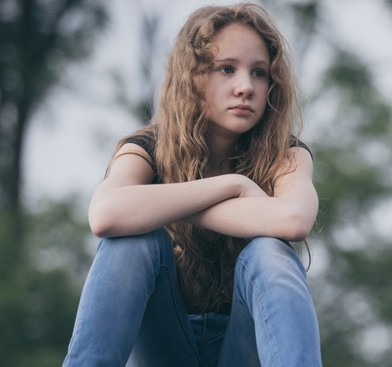
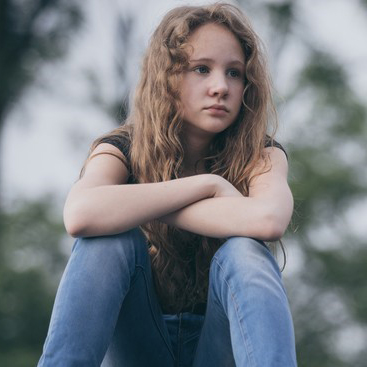
editing homepage

diff --git a/HTML/home.html b/HTML/home.html
@@ -1,97 +1,77 @@
 <!DOCTYPE html>
 <html lang="nl">
 
-<head>
-    <meta charset="UTF-8">
-    <title>Kinderen en palliatieve zorg</title>
-    <link rel="stylesheet" href="../CSS/main.css">
-    <meta name="viewport" content="width=device-width, initial-scale=1.0">
-    <link href="https://fonts.googleapis.com/css?family=Noto+Sans" rel="stylesheet">
-</head>
+    <head>
+        <meta charset="UTF-8">
+        <title>Kinderen en palliatieve zorg</title>
+        <link rel="stylesheet" href="../CSS/main.css">
+        <meta name="viewport" content="width=device-width, initial-scale=1.0">
+        <link href="https://fonts.googleapis.com/css?family=Noto+Sans" rel="stylesheet">
+    </head>
 
-<body>
-    <header>
-        <nav>
-            <ul>
-                <li><a href="contact.html">Contact</a></li>
-                <li class="media"><a href="#subnav1">Media</a>
-                    <div id="subnav1">
-                        <ul>
-                            <li><a href="mediaboeken.html">Boeken &amp; multimedia</a></li>
-                            <li><a href="medialinks.html">Links</a></li>
-                        </ul>
-                    </div>
-                </li>
-                <li><a href="tips.html">Tips</a></li>
+    <body>
+        <header>
+            <nav>
+                <ul>
+                    <li><a href="contact.html">Contact</a></li>
+                    <li class="media"><a href="#subnav1">Media</a>
+                        <div id="subnav1">
+                            <ul>
+                                <li><a href="mediaboeken.html">Boeken &amp; multimedia</a></li>
+                                <li><a href="medialinks.html">Links</a></li>
+                            </ul>
+                        </div>
+                    </li>
+                    <li><a href="tips.html">Tips</a></li>
+                </ul>
+                <div class="logo">
+                    <a href="home.html"><img a src="../images/logo.svg" alt="logo"></a>
+                </div>
+            </nav>
+        </header>
+
+
+        <h1 class="title">Kinderen en palliatieve zorg</h1>
+
+<div class="wrapper">
+        <figure class="afmontage">
+            <img src="../images/homepage.jpg" alt="home">
+        </figure>
+        <section class="geel clearfix">
+            <article class="getuigenis clearfix">
+                <img src="../images/getuigenis2.jpg" alt="">
+                <h3>Florian, 11 jaar</h3>
+                <p> Florian is ook al eens ziek geweest. Zijn keel deed pijn.De dokter kwam en gaf hem een drankje dat naar kersen smaakte. Daar werd Stan beter van. Dat was een beetje jammer, want toen moest hij weer naar school. Iedereen wordt vroeg of laat beter, maar bij mama duurt het lang.
+                </p>
+            </article>
+
+            <article class="getuigenis clearfix">
+                <img src="../images/getuigenis1.jpeg" alt="">
+                <h3>Sarah, 9 jaar</h3>
+                <p> Toen ik zes jaar was, werd oma plots ziek. Ze werd steeds vergeetachtiger. Soms vergat ze dat ze haar voordeur open had laten staan, of dat mijn vader al op bezoek geweest was. Ze moest naar een rusthuis verhuizen. Toen we haar bezochten wist ze zelfs mijn naam niet meer...
+                </p>
+
+            </article>
+        </section>
+        <section class="columns inleiding clearfix">
+            <article class="twocolumn">
+                <img src="../images/Fotos/image046.jpg" alt="">
+                <h3>Inleiding</h3>
+                <p>Hoe vertel ik mijn zoontje dat opa niet meer kan genezen? Hoe leg ik mijn elf jarige dochter uit dat mama uit het ziekenhuis naar huis komt om te sterven? Is een kind niet altijd te jong voor verlies? Laat ik het nog op bezoek komen bij papa, nu hij stervende is, of niet? Wat vertel ik wel en niet aan mijn kind, en hoe pak ik dit het beste aan? Ouders, familieleden en hulpverleners worstelen met veel vragen als een kind of jongere met een palliatieve situatie te maken krijgt. Dat is menselijk en begrijpelijk gedrag: over verlies en verdriet praten we niet gemakkelijk met kinderen.
+                </p>
+            </article>
+        </section>
+</div>
+
+        <footer>
+            <p class="contact"><a href="contact.html">Contacteer ons</a></p>
+            <p class="number"><a href="tel:02 255 30 40">02 255 30 40</a></p>
+            <ul class="social">
+                <li><a id="facebook" href="https://www.facebook.com/palliatief/">facebook</a></li>
+                <li><a id="twitter" href="https://twitter.com/FPZVlaanderen">twitter</a></li>
             </ul>
-            <div class="logo">
-                <a href="home.html"><img a src="../images/logo.svg" alt="logo"></a>
-            </div>
-        </nav>
-    </header>
-
-
-    <h1 class="titelhome">Kinderen en palliatieve zorg</h1>
-
-
-    <figure class="afmontage">
-        <img src="../images/homepage.jpg" alt="home">
-    </figure>
-
-
-    <div class="geel">
-        <div class="getuig2">
-
-            <img src="../images/getuigenis2.jpg" alt="">
-            <p class="flo">Florian, 11 jaar</p>
-            <p>
-                Florian is ook al eens ziek geweest. Zijn keel deed pijn.De dokter kwam en gaf hem een drankje dat naar kersen smaakte. Daar werd Stan beter van. Dat was een beetje jammer, want toen moest hij weer naar school. Iedereen wordt vroeg of laat beter, maar bij mama duurt het lang.
-            </p>
-
-        </div>
-
-
-
-        <div class="getuig1">
-
-            <img src="../images/getuigenis1.jpeg" alt="">
-            <p class="sarah">Sarah, 9 jaar</p>
-            <p>
-                Toen ik zes jaar was, werd oma plots ziek. Ze werd
-                steeds vergeetachtiger. Soms vergat ze dat ze haar
-                voordeur open had laten staan, of dat mijn vader al op
-                bezoek geweest was. Ze moest naar een rusthuis
-                verhuizen. Toen we haar bezochten wist ze zelfs mijn
-                naam niet meer...
-            </p>
-
-        </div>
-
-    </div>
-    <div class="blauw">
-        <p class="titelinleiding">Inleiding</p>
-        <p class="inleiding">
-            Hoe vertel ik mijn zoontje dat opa niet meer kan genezen? Hoe leg ik mijn elf jarige dochter uit dat mama uit het ziekenhuis naar huis komt om te
-            sterven? Is een kind niet altijd te jong voor verlies? Laat ik het nog op
-            bezoek komen bij papa, nu hij stervende is, of niet? Wat vertel ik wel en
-            niet aan mijn kind, en hoe pak ik dit het beste aan? Ouders, familieleden en
-            hulpverleners worstelen met veel vragen als een kind of jongere met een
-            palliatieve situatie te maken krijgt. Dat is menselijk en begrijpelijk gedrag:
-            over verlies en verdriet praten we niet gemakkelijk met kinderen.
-        </p>
-        <img src="../images/Fotos/image046.jpg" alt="">
-    </div>
-
-
-    <footer>
-        <p class="contact"><a href="contact.html">Contacteer ons</a></p>
-        <p class="number"><a href="tel:02 255 30 40">02 255 30 40</a></p>
-        <ul class="social">
-            <li><a id="facebook" href="https://www.facebook.com/palliatief/">facebook</a></li>
-            <li><a id="twitter" href="https://twitter.com/FPZVlaanderen">twitter</a></li>
-        </ul>
-        <p class="websites">Onze websites: <a href="http://www.pallialine.be">pallialine.be</a> - <a href="http://www.palliatief.be/template.asp?f=index.htm">palliatief.be</a></p>
-    </footer>
-</body>
+            <p class="websites">Onze websites: <a href="http://www.pallialine.be">pallialine.be</a> - <a href="http://www.palliatief.be/template.asp?f=index.htm">palliatief.be</a></p>
+        </footer>
+    </body>
 
 </html>

diff --git a/CSS/paginas/home.css b/CSS/paginas/home.css
@@ -1,109 +1,39 @@
-/*home1*/
-.titelhome {
-    text-align: center;
-    margin-top: 46px;
-    color: #515C4B;
-    font-size: 40px;
+.afmontage, .afmontage img {
+    width: 100%;
+    margin: auto;
 }
 
-.afmontage {
-    margin-left: 8%;
+.getuigenis {
+    width: 45%;
+    float: left;
 }
 
-/*home2*/
+.getuigenis:nth-of-type(2){
+    margin-left: 2%;
+}
+
+.getuigenis img {
+    width: 45%;
+    float: left;
+}
+
+.getuigenis p, .getuigenis h3 {
+    width: 45%;
+    float: right;
+}
+
 .geel {
-    margin-left: 8%;
-    width: 1250px;
+    width: 100%;
+    margin: auto;
     background-color: #F7C954;
-    height: 300px;
-    margin-top: -2%;
-
+    margin-top: -5px;
+    padding: 50px;
+    box-sizing: border-box;
 }
 
-.foto1 {
-    width: 40vh;
-    margin-left: 1%;
-    padding-top: 2%;
-}
-
-.geel > .getuig2 img {
-    padding-top: 3%;
-    width: 40vh;
-    margin-left: 4%;
-}
-
-.getuig2 > .flo {
-    color: #515C4B;
-    margin-top: -13%;
-    font-size: 16px;
-}
-
-.getuig2 > p {
-    position: absolute;
-    margin-right: 51%;
-    color: black;
-    margin-left: 25%;
-    margin-top: -11%;
-    font-size: 12px;
-}
-}
-
-.foto2 {
-    width: 40vh;
-    margin-left: 1%;
-    padding-top: 2%;
-}
-
-.geel > .getuig1 img {
-    width: 27vh;
-    margin-left: 55%;
-    margin-top: -16%;
-    margin-bottom: 10%;
-}
-
-.getuig1 > .sarah {
-    color: #515C4B;
-    margin-top: -21%;
-    font-size: 16px;
-}
-
-.getuig1 > p {
-    position: absolute;
-    margin-right: 15%;
-    color: black;
-    margin-left: 61%;
-    margin-top: -19%;
-    font-size: 12px;
-}
-
-/*home3*/
-.blauw {
-    margin-left: 8%;
-    width: 84%;
-    background-color: #E8F7F4;
-    height: 300px;
-    padding-bottom: 3%;
-
-}
-
-.blauw > .titelinleiding {
-    color: #515C4B;
-    font-size: 22px;
-    margin-left: 23%;
-}
-
-.inleiding {
-    font-size: 12px;
-    color: black;
-    margin-right: 47%;
-    margin-left: 23%;
-}
-
-.blauw > img {
-    width: 40vh;
-    width: 40vh;
-    margin-left: 55%;
-    margin-top: -20%;
+.inleiding{
+    width: 70%;
+    margin: auto;
 }
 
 @media only screen and (max-width: 600px) {

diff --git a/CSS/basis/layout.css b/CSS/basis/layout.css
@@ -46,6 +46,9 @@ section:last-of-type{
     padding: 0px 25px;
 }
 
+.wrapper{
+    margin: 0px 100px;
+}
 
 /* CLEARFIX */
 .clearfix::after {

diff --git a/CSS/navigatie/footer.css b/CSS/navigatie/footer.css
@@ -13,7 +13,7 @@ footer a, footer p {
     transition: 0s;
 }
 
-p {
+footer p {
     margin-left: 50px;
     float: left;
 }
